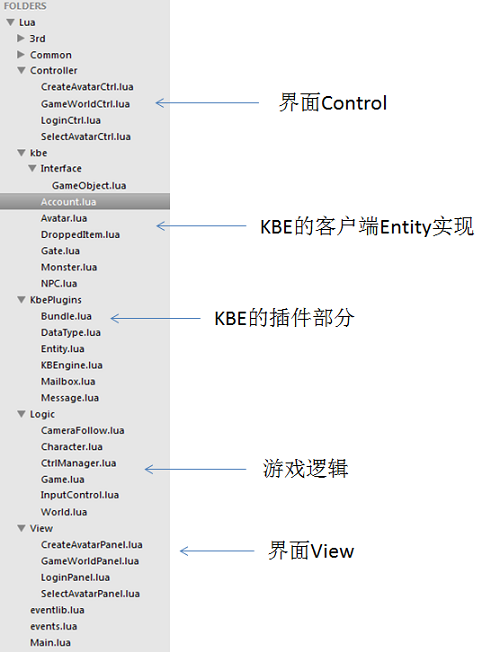
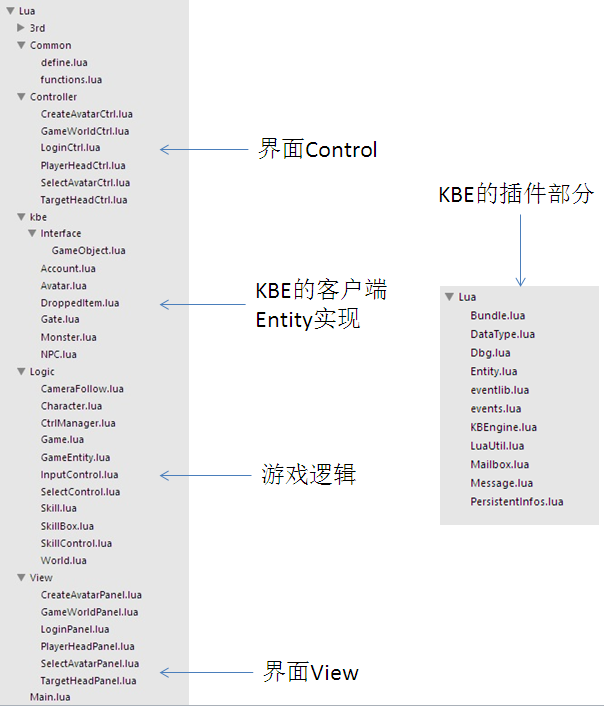
README.md

diff --git a/README.md b/README.md
@@ -3,12 +3,17 @@
 
 * 使用Unity+KBEngine开发的mmo游戏demo的第二版，主要工作是将KBE的客户端插件以及大部分游戏逻辑Lua化，实现客户端热更新
 
-* 运行前需要先点击LuaFramework->Build XXX Resource来创建游戏资源的assetbundle, 并点击Lua->Generate All来wrap一些C#代码到lua里面，这部分有疑问可以查看ulua官方教程[ULUA](https://github.com/jarjin/LuaFramework_UGUI)
+* kbe插件层逻辑分离出去作为[submodule](https://github.com/liuxq/kbengine_unity3d_lua_plugins)，请先更新插件
+
+* 运行前需要先点击LuaFramework->Build XXX Resource来创建游戏资源的assetbundle, 并点击Lua->Generate All来wrap一些C#代码到lua里面，这部分有疑问可以查看tolua官方教程[TOLUA](https://github.com/jarjin/LuaFramework_UGUI)
 
 * 目前游戏内容并没有实现完全，可以仿照游戏第一版[TestGame](https://github.com/liuxq/TestGame)中的C#逻辑改写Lua代码补全游戏功能
 
-* 使用kbengine-0.9.13版本，服务器脚本在：[MyGameServerAssets](https://github.com/liuxq/MyGameServerAssets.git)
+* 使用kbengine-0.9.17版本，服务器脚本在：[MyGameServerAssets](https://github.com/liuxq/MyGameServerAssets.git)
 //
+//-------------2017-07-18-------------
+
+(1)kbe的插件层分离出去，升级lua插件到tolua#1.0.7.337，升级kbe到0.9.17
 
 //-------------2017-05-21-------------
 
